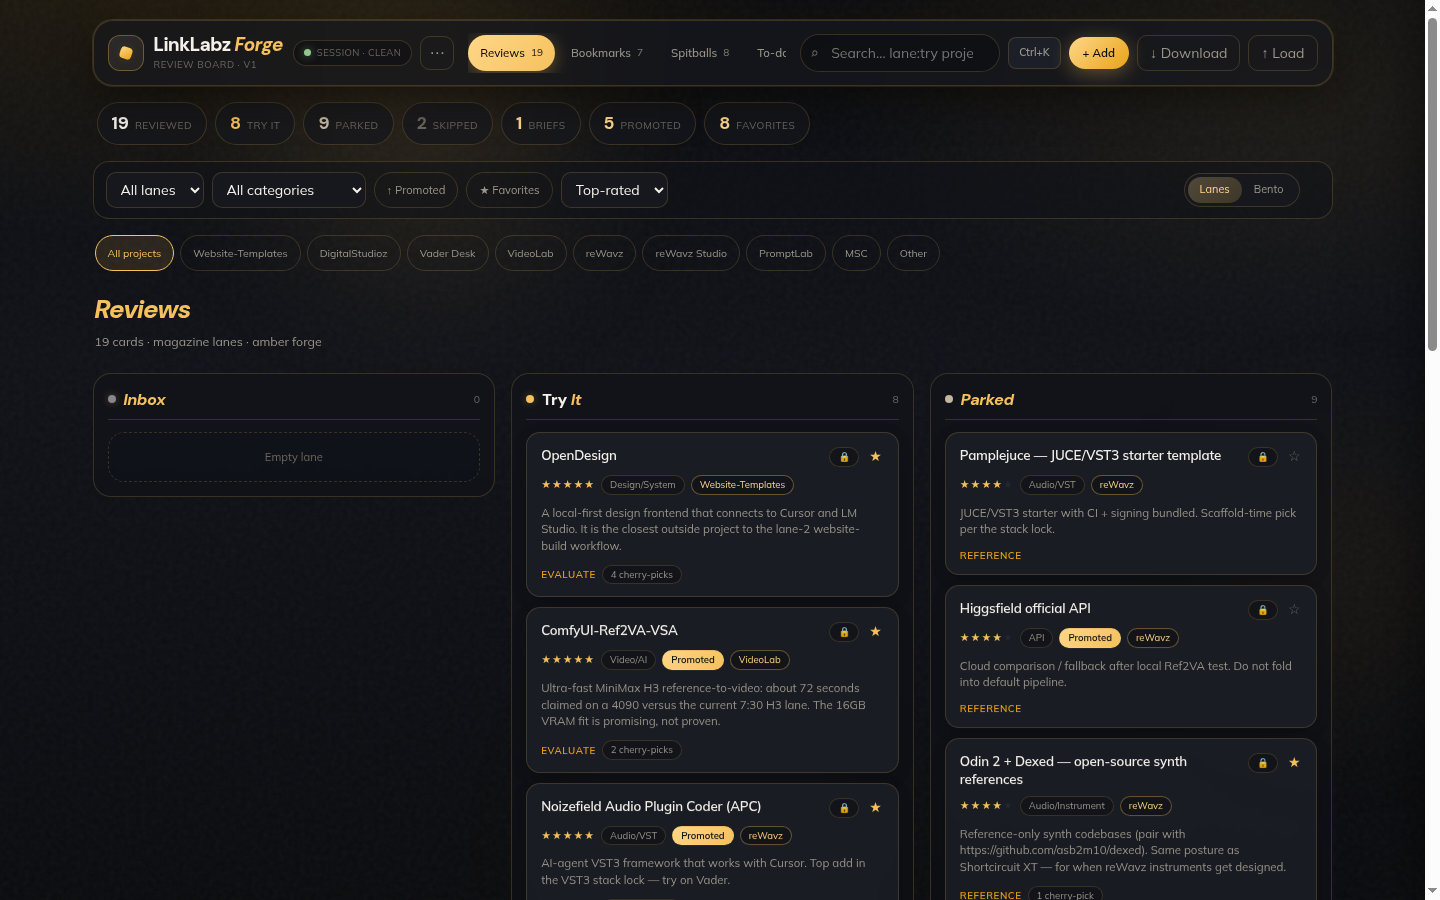
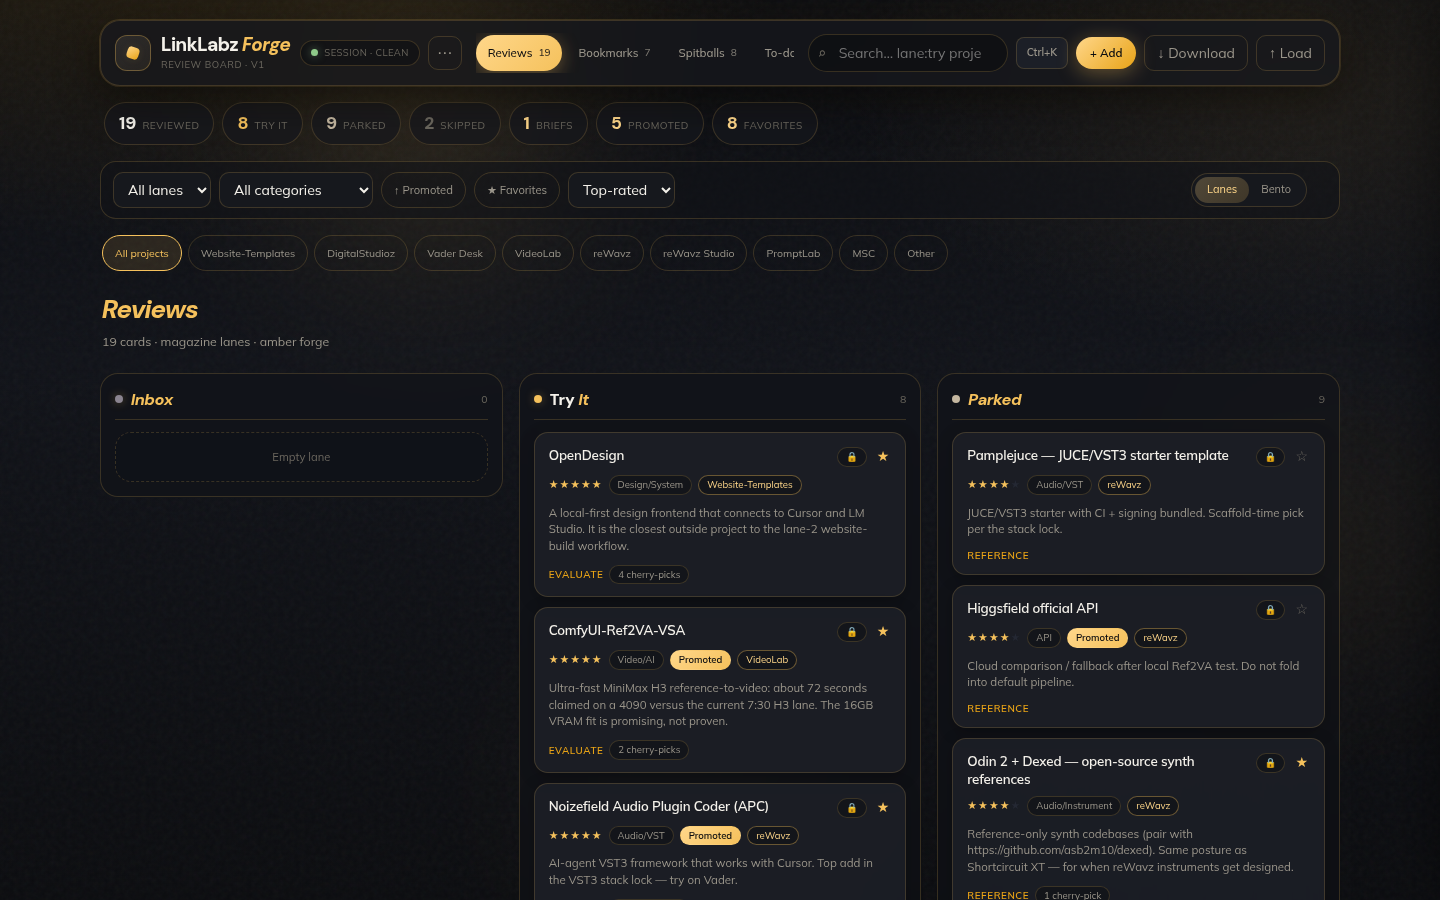
Ship dark README hero (?v=2) + FINAL-MASTER blueprint lock
Recapture the live Reviews home at 1440x900 with prefers-color-scheme dark so the README hero stays charcoal/amber, cache-bust it as screenshot.png?v=2, and append the 2026-09-24 Ravyn ACK changelog without rewriting earlier entries.

diff --git a/docs/CURSOR-BLUEPRINT.md b/docs/CURSOR-BLUEPRINT.md
@@ -131,3 +131,9 @@ Not a Muse clone — amber forge identity. Trinity Muse = master board until Jon
 ### 2026-09-23 — initial Forge blueprint
 - Created `docs/CURSOR-BLUEPRINT.md` on branch `bridge-status-and-cursor-blueprint` in response to Trinity NEED-ACK (mirror request while her `docs/CURSOR-BLUEPRINT.md` on `gradient-lab-upgrade` is not yet in-tree).
 - Captures current Forge app map, `linklabz-forge-v1.2` persistence, seed counts (19/7/8/7), real-vs-stubbed, Cursor wiring checklist (aligned with her 10 must-fixes + Forge gaps), design tokens, branch workflow.
+
+### 2026-09-24 — FINAL-MASTER harvest lock (Ravyn ACK)
+- Rebuild IN set locked with Trinity: (1) shared LinkLabz logo/brand pack (2) facet filter bar + rectangular chips + counts + Promoted/Favorites + 36–44px targets (3) searchable project combobox + chips + pinning (4) card overflow: Favorite / Promote / Set lane / Open / Copy link (5) drag-reorder to-dos + keyboard fallback (6) workspace menu Download/Load/Reset/Clear filters (7) live stat pills (8) phone bottom tab bar (9) Card Swap under Tools + mega menu + search ONLY — not island, not top bar.
+- CUT / archive-only: gold foil cards; Coast/Band/Cover as defaults; gold top-bar Card Swap button; lab-toggle chrome; redundant glass/goo/monograms.
+- Master DATA for Cursor rebuild = Trinity Muse board; Trinity Pages = reference BUILD; Forge = challenger reference for her five + phone tab bar.
+- Data preservation: all reviews/bookmarks/spitballs/to-dos/favorites must survive import; Promoted/Favorites/queue order must become persistent in Cursor rebuild (not session-only).

diff --git a/README.md b/README.md
@@ -11,7 +11,7 @@
 
 **🚀 Live preview:** https://jonbeatz.github.io/linklabz-forge-preview/
 
-![LinkLabz Forge preview](assets/screenshot.png)
+![LinkLabz Forge preview](assets/screenshot.png?v=2)
 
 ## What's inside
 
@@ -60,7 +60,7 @@ Same house pattern as the Trinity preview:
 
 1. Title + one-line description of whose build it is and what changed.
 2. Badge row: Pages deploy status, last commit, repo size, site type.
-3. Live preview link, then a real screenshot (`assets/screenshot.png`).
+3. Live preview link, then a real screenshot (`assets/screenshot.png?v=2`).
 4. "What's inside" — the feature list in plain language.
 5. "Tech stack" — the table above; keep it honest and short.
 6. "Project structure" — the tree, so the next person knows where things live.
